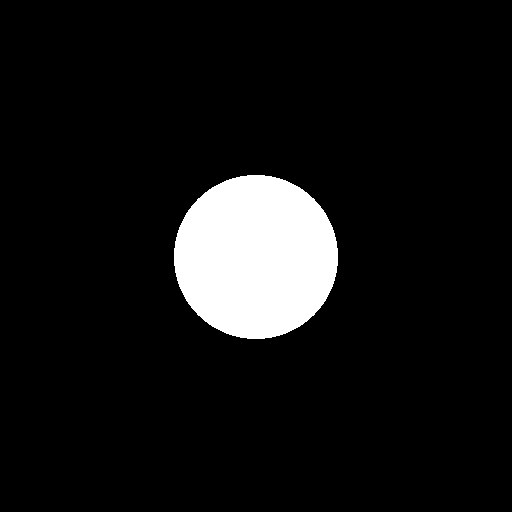
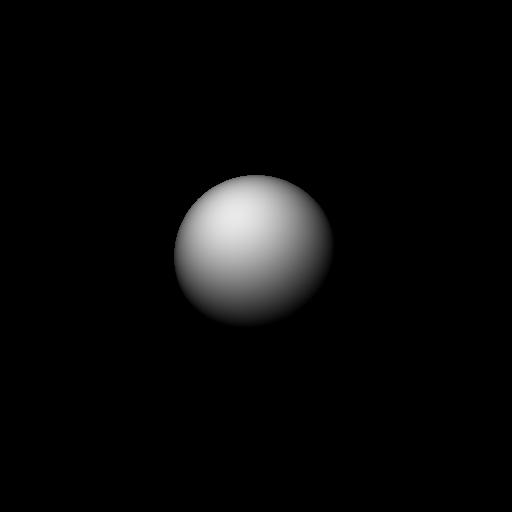
light source

Changed region(s): [[0.3125, 0.3438, 0.6875, 0.6875]]

diff --git a/main.cpp b/main.cpp
@@ -32,6 +32,8 @@ class Vector{
 		data[2] /=n;
 	}
 
+
+
 	double operator[](int i) const {return data[i];}; //lecture seule
 	double& operator[](int i){return data[i];}; //modification
 	double data[3];
@@ -77,26 +79,36 @@ public:
 
 };
 
-	bool intersect(const Ray& r) const {
+	bool intersect(const Ray& r , Vector& P, Vector& N) {
 		//solve a*t^2 +b*t +c = 0
 		double a =1;
 		double b= 2*dot(r.u , r.C - O );
 		double c= (r.C - O).norm2()- R*R;
 
 		double delta = b*b - 4*a*c;
-		if (delta >= 0){
-			return true ;
+		if (delta < 0){
+			return false ;
 		}
-		else{
+		double t1 = (-b - sqrt(delta))/(2*a);
+		double t2 = (-b + sqrt(delta))/(2*a);
+
+		if (t2 <0){
 			return false;
 		}
 
-		//double sqdelta=sqrt(detla):
-		//double t1=;
-		//double t2=;
-		//double t;
+		double t;
+		if (t1>0){
+			t = t1;
+		}
+		else{
+			t=t2;
+		}
 
-		//if(t1>0)
+		P= r.C + t*r.u;
+		N=(P - O);
+		N.normalize();
+
+		return true;
 
 	}
 		double R=R;
@@ -114,6 +126,9 @@ int main() {
 	double fov=60*3.14/180;
 	double tanfov2 = tan(fov/2);
 
+	Vector lumiere_position(-10,20,40);
+	double intensite_lumiere = 300000;
+
 	std::vector<unsigned char> image2(W * H * 3, 0);
 	for (int i = 0; i < H; i++) {
 		for (int j = 0; j < W; j++) {
@@ -121,18 +136,22 @@ int main() {
 			Vector u(j-W/2+0.5, H-i-H/2+0.5,-W/(2*tanfov2));
 			u.normalize();
 			Ray r(C,u);
-			bool inter = s.intersect(r);
+			Vector P,N; 
+			bool inter = s.intersect(r,P,N);
+
+			double intensite_pixel=0.;
+
+			Vector l = (lumiere_position - P);
+			l.normalize();
+
 
 			if (inter){
-				image2[(i * W + j) * 3 + 0] = 255;
-				image2[(i * W + j) * 3 + 1] = 255;
-				image2[(i * W + j) * 3 + 2] = 255;
+				intensite_pixel = intensite_lumiere * std::max(0.,dot(l,N)) / (lumiere_position - P).norm2();
+				image2[(i * W + j) * 3 + 0] = std::min(255.,std::max(0.,intensite_pixel));
+				image2[(i * W + j) * 3 + 1] = std::min(255.,std::max(0.,intensite_pixel));
+				image2[(i * W + j) * 3 + 2] = std::min(255.,std::max(0.,intensite_pixel));
 			}
-			else{
-				image2[(i * W + j) * 3 + 0] = 0;
-				image2[(i * W + j) * 3 + 1] = 0;
-				image2[(i * W + j) * 3 + 2] = 0;
-			}
+		
 
 			//image[(i * W + j) * 3 + 0] = 255;
 			//image[(i * W + j) * 3 + 1] = 0;
